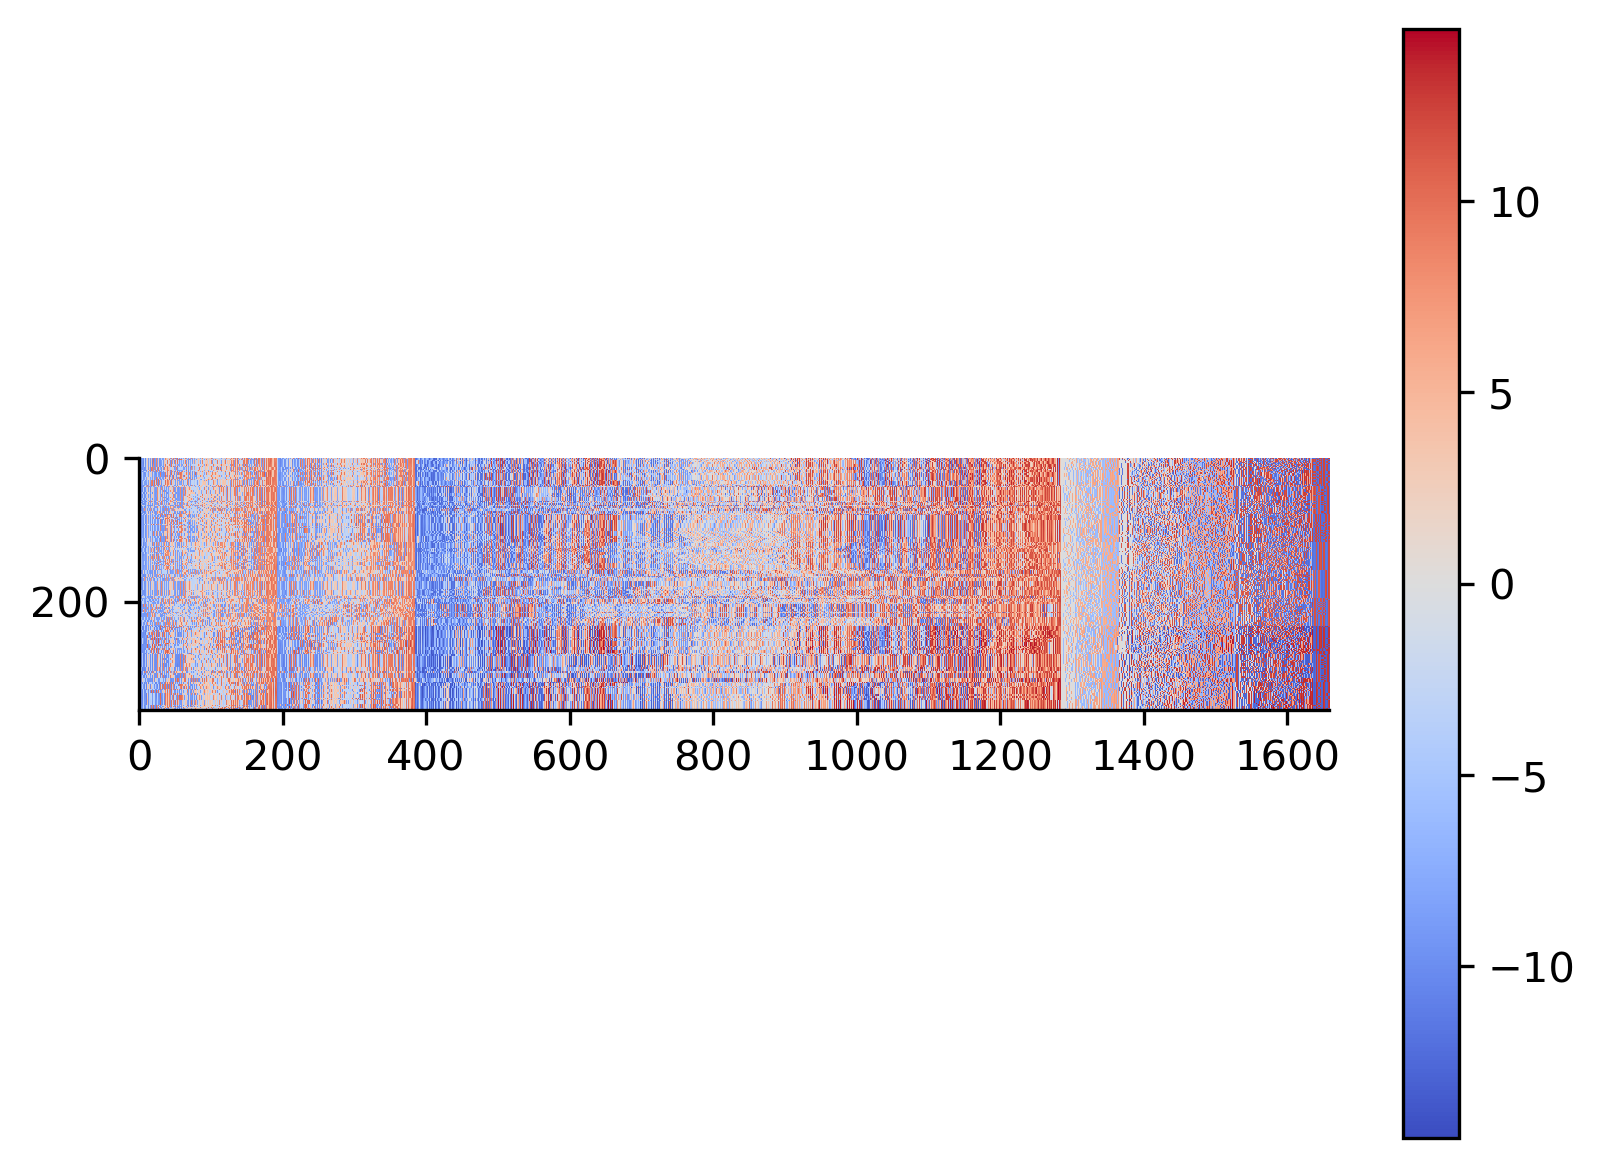
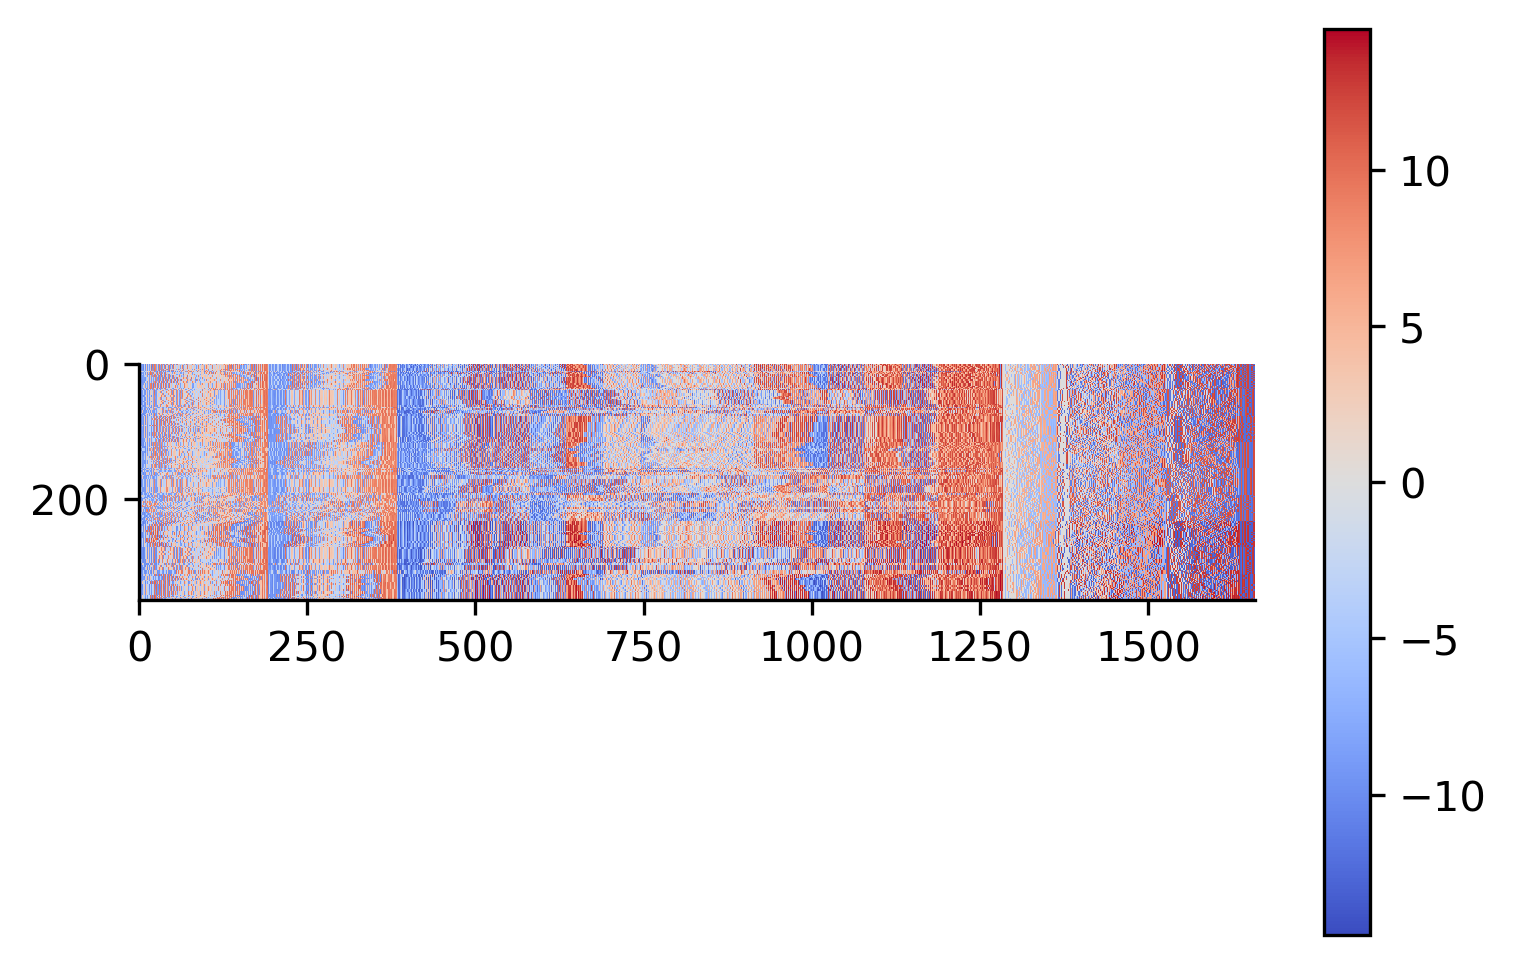
test clustering

Changed region(s): [[0.0, 0.3731, 0.8371, 0.6839], [0.8681, 0.0, 0.9921, 0.9948]]

diff --git a/OIHP/run_OIHP_wasserstein.py b/OIHP/run_OIHP_wasserstein.py
@@ -335,14 +335,21 @@ def cluster_wm(ncluster = None):
         plt.scatter(values[7*(frs-frd):8*(frs-frd),0], values[7*(frs-frd):8*(frs-frd),1],  marker='.',color='tab:gray', alpha=0.75,  linewidth=0.5, s=20, label="I-Ortho")
         plt.scatter(values[8*(frs-frd):9*(frs-frd),0], values[8*(frs-frd):9*(frs-frd),1],  marker='.',color='tab:olive', alpha=0.75,  linewidth=0.5, s=20, label="I-Tetra")
         
-        #plt.ylim(np.min(values[:, 1])-10, np.max(values[:,1])+50)
-        #plt.xlim(-100, 100)
-        #plt.legend(ncol=3, loc='upper left', handlelength=.5, borderpad=.25, fontsize=10)
-        plt.axis('equal')
-        plt.xticks([])
-        plt.yticks([])
-        plt.savefig("tsne_stats_40_9types_wm.png", dpi=200)
-        #plt.show()
+    if ncluster == 3:
+        plt.scatter(values[:(frs-frd),0], values[:(frs-frd),1], marker='.', color='tab:blue', alpha=0.75, linewidth=.5, s=20, label="Br")
+        plt.scatter(values[(frs-frd):2*(frs-frd),0], values[(frs-frd):2*(frs-frd),1], marker='.', color='tab:orange', alpha=0.75,  linewidth=0.5, s=20, label="Cl")
+        plt.scatter(values[2*(frs-frd):3*(frs-frd),0], values[2*(frs-frd):3*(frs-frd),1], marker='.', color='tab:green', alpha=0.75,  linewidth=0.5, s=20, label="I")
+       
+            
+        
+    #plt.ylim(np.min(values[:, 1])-10, np.max(values[:,1])+50)
+    #plt.xlim(-100, 100)
+    #plt.legend(ncol=3, loc='upper left', handlelength=.5, borderpad=.25, fontsize=10)
+    plt.axis('equal')
+    plt.xticks([])
+    plt.yticks([])
+    plt.savefig("tsne_stats_40_9types_wm.png", dpi=200)
+    #plt.show()
 
 if __name__ == '__main__':
     #build_wm_multiprocessing()

diff --git a/OIHP/run_OIHP_cocycle.py b/OIHP/run_OIHP_cocycle.py
@@ -246,7 +246,7 @@ def cal_uGH_matrix():
     np.save("GH_OIHP_all_cocycle2.npy", mat)
     
     
-def cluster(ncluster):
+def cluster_cocycle(ncluster):
     mat = np.load("GH_OIHP_all_cocycle2.npy", allow_pickle=True)
     # plot mat as heat map and save mimage
     plt.imshow(mat, cmap='coolwarm', interpolation='nearest')
@@ -351,4 +351,4 @@ def cluster(ncluster):
 if __name__ == '__main__':
     #calDis()  # calculate distance matrix for each structure and save data
     #cal_uGH_matrix() # calculate pairwise uGH between structures and save the matrix
-    cluster(ncluster = 3) # cluster data according to uGH matrix
+    cluster_cocycle(ncluster = 3) # cluster data according to uGH matrix

diff --git a/OIHP/run_OIHP_L1norms.py b/OIHP/run_OIHP_L1norms.py
@@ -317,8 +317,9 @@ def cluster_l1(ncluster):
     
     #values = PCA(n_components=2).fit_transform(feat)
     #print(values.explained_variance_ratio_)
-    values = TSNE(n_components=2, verbose=2, perplexity= 20, random_state=40,  metric='jaccard').fit_transform(feat)
-    
+    #values = TSNE(n_components=2, verbose=2, perplexity= 20, random_state=40,  metric='jaccard').fit_transform(feat)
+    values = TSNE(n_components=2, verbose=2).fit_transform(feat)
+
     #values = umap.UMAP(random_state=42).fit_transform(feat)
     plt.figure(figsize=(5,5), dpi=200)
     mpl.rcParams['axes.spines.right'] = False

diff --git a/OIHP/run_OIHP_coords.py b/OIHP/run_OIHP_coords.py
@@ -151,6 +151,7 @@ def cluster_coords(ncluster = None):
     #plt.ylim(np.min(values[:, 1])-10, np.max(values[:,1])+50)
     #plt.xlim(-100, 100)
     #plt.legend(ncol=3, loc='upper left', handlelength=.5, borderpad=.25, fontsize=10)
+    
     plt.axis('equal')
     plt.xticks([])
     plt.yticks([])
@@ -160,4 +161,4 @@ def cluster_coords(ncluster = None):
 if __name__ == '__main__':
     #build_wm_multiprocessing()
     #build_uGH()
-    cluster_coords(ncluster = 9)
+    cluster_coords(ncluster = 3)
